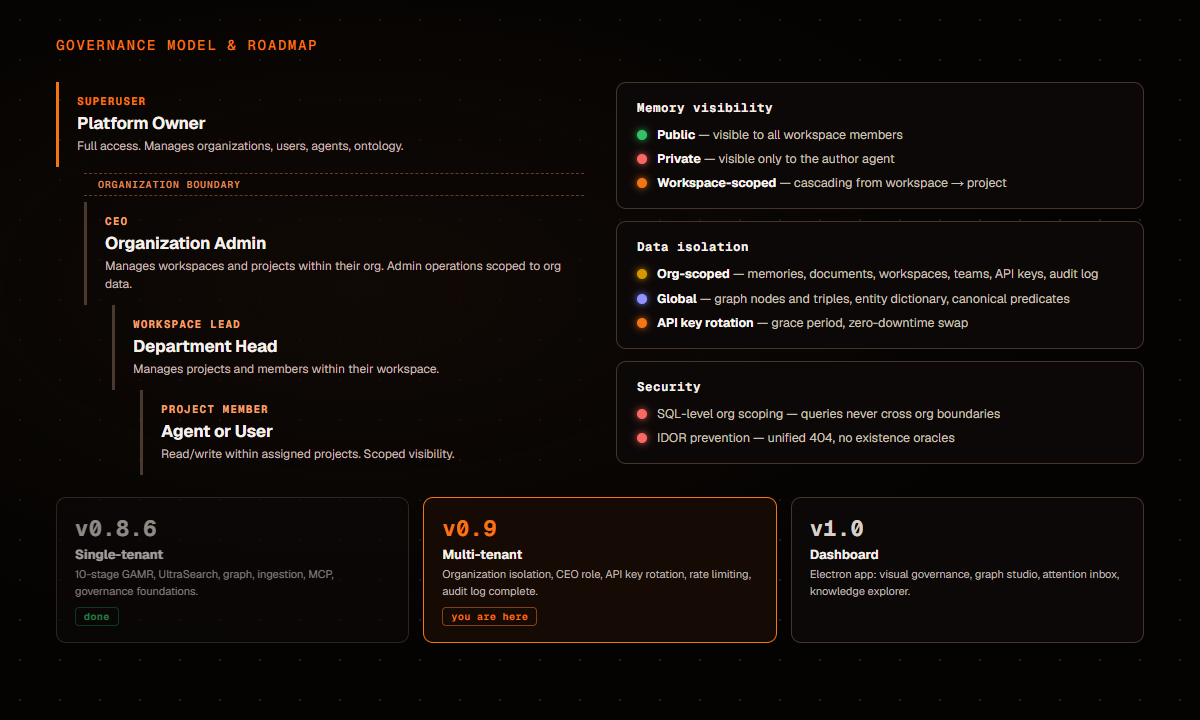
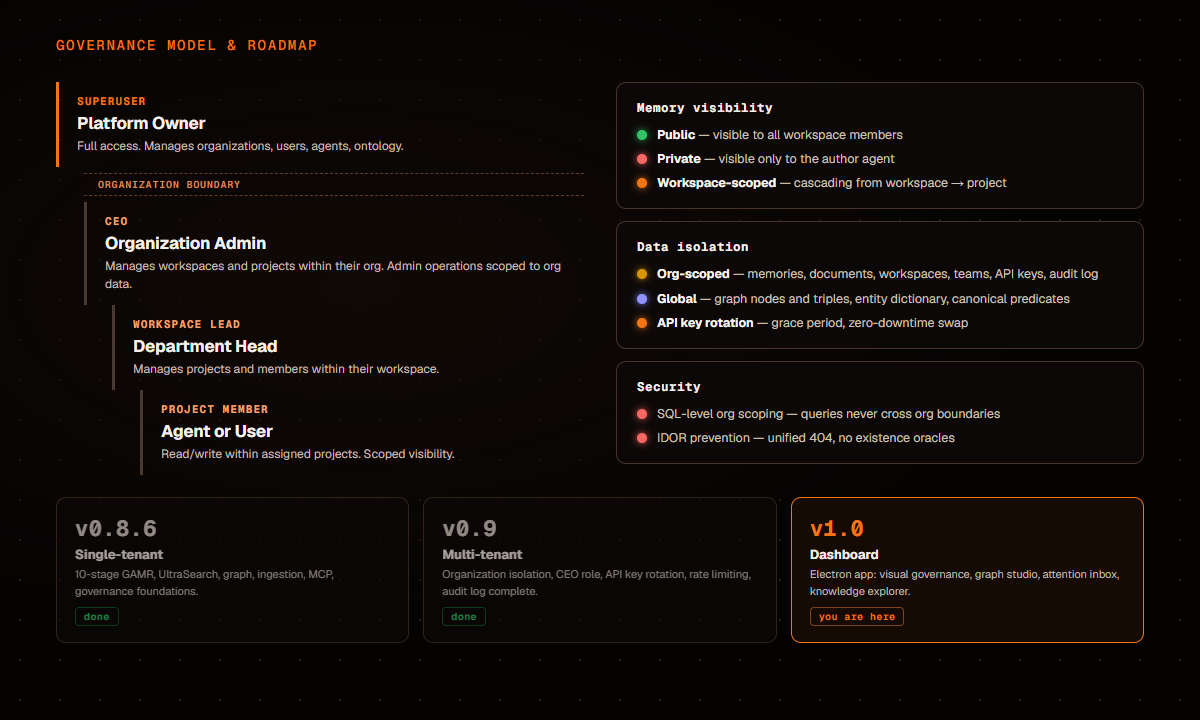
docs(readme): refresh roadmap visual — v0.9 done, v1.0 dashboard current
Regenerated docs/images/governance.html + governance.png: v0.9 marked done,
v1.0 (Dashboard) lit as "you are here". The old image still showed v0.9 as the
current milestone.

Changed region(s): [[0.37, 0.7028, 0.6167, 0.8861], [0.6783, 0.825, 0.74, 0.8861], [0.6783, 0.7028, 0.74, 0.7639]]

diff --git a/docs/images/governance.html b/docs/images/governance.html
@@ -308,16 +308,17 @@
       <div class="gov-version-desc">10-stage GAMR, UltraSearch, graph, ingestion, MCP, governance foundations.</div>
       <div class="gov-version-tag done-tag">done</div>
     </div>
-    <div class="gov-version current">
+    <div class="gov-version done">
       <div class="gov-version-num">v0.9</div>
       <div class="gov-version-label">Multi-tenant</div>
       <div class="gov-version-desc">Organization isolation, CEO role, API key rotation, rate limiting, audit log complete.</div>
-      <div class="gov-version-tag">you are here</div>
+      <div class="gov-version-tag done-tag">done</div>
     </div>
-    <div class="gov-version">
+    <div class="gov-version current">
       <div class="gov-version-num">v1.0</div>
       <div class="gov-version-label">Dashboard</div>
       <div class="gov-version-desc">Electron app: visual governance, graph studio, attention inbox, knowledge explorer.</div>
+      <div class="gov-version-tag">you are here</div>
     </div>
   </div>
 </div>